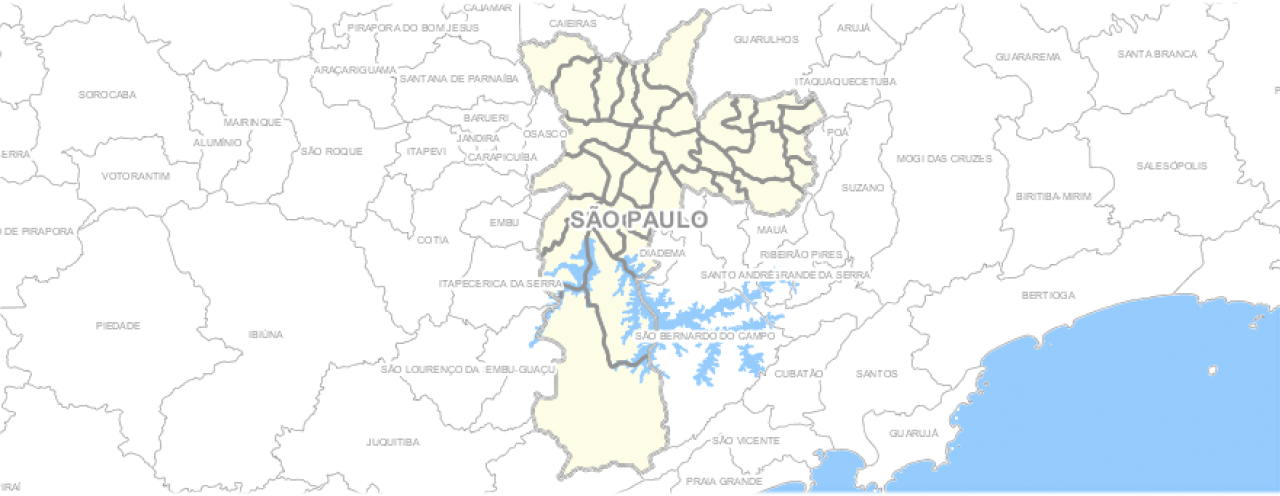
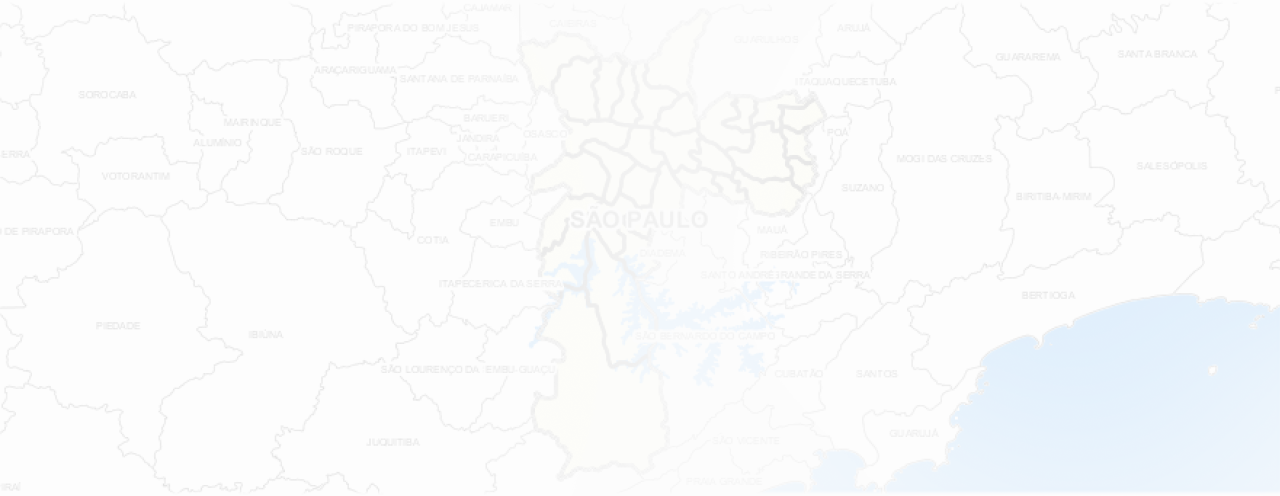
Atualizando Index e Home

diff --git a/public/index.html b/public/index.html
@@ -12,7 +12,6 @@
     <!-- Bootstrap CSS -->
     <link rel="stylesheet" href="https://stackpath.bootstrapcdn.com/bootstrap/4.3.1/css/bootstrap.min.css" integrity="sha384-ggOyR0iXCbMQv3Xipma34MD+dH/1fQ784/j6cY/iJTQUOhcWr7x9JvoRxT2MZw1T" crossorigin="anonymous">
     <link rel="stylesheet" href="https://unpkg.com/leaflet@1.4.0/dist/leaflet.css" />
-    <!--[if IE]><link rel="stylesheet" href="%PUBLIC_URL%/ie-fix.css"><![endif]-->
     <title>Vaga na Creche</title>
   </head>
   <body>

diff --git a/src/componentes/Home/Home.js b/src/componentes/Home/Home.js
@@ -17,7 +17,7 @@ const Home = () => {
                         <div className="col-lg-12 col-sm-12 mt-5 pr-0 pl-0 text-center m-auto ">
                             <img
                                 src={logoVagaNaCreche}
-                                alt="Escola Aberta"
+                                alt="Vaga na Creche"
                                 className="mb-5"
                             />
                             <h2>

diff --git a/src/styles/styles.scss b/src/styles/styles.scss
@@ -65,7 +65,7 @@ body {
 
 .busca-escolas {
   background: $corCinzaClaro url("../img/bg_busca.png");
-  background-blend-mode: lighten;
+  //background-blend-mode: lighten;
   background-size: cover;
   color: $corCinzaHome;
   min-height: 490px;
